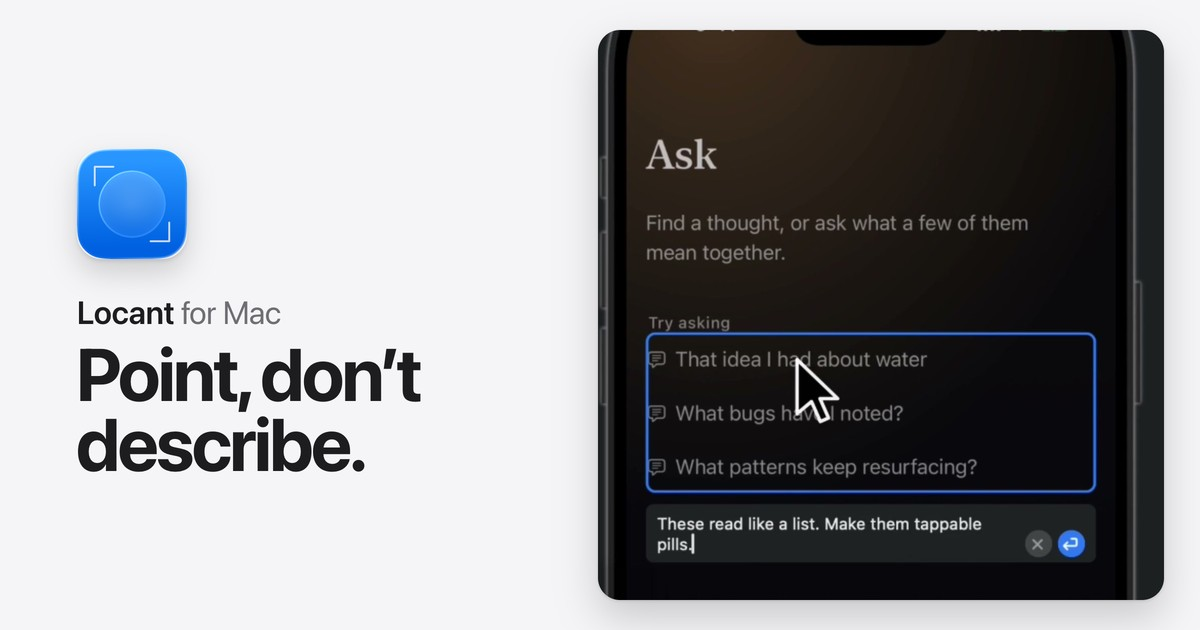
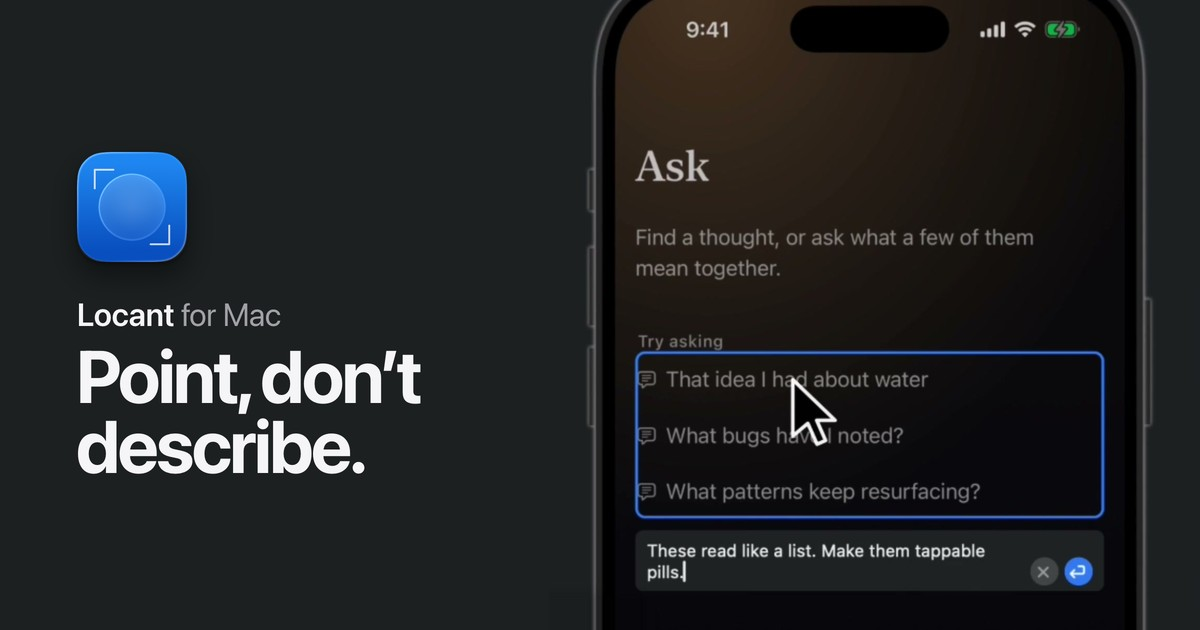
site: the share image on the capture's own dark ground
The light card put a dark, warm capture on #F5F5F7, and the two did not meet.
The image is now dark, on #1C2021, the Simulator backdrop sampled from the
frame, so the phone bleeds off the top and bottom with no edge; the dark icon
and the headline in white sit on the left. ?v=4.

diff --git a/site/index.html b/site/index.html
@@ -13,7 +13,7 @@
 <meta property="og:site_name" content="Locant">
 <meta property="og:title" content="Locant: Point, don’t describe.">
 <meta property="og:description" content="Point at one element in any app. Your coding agent gets the element, not a screenshot.">
-<meta property="og:image" content="https://locant.malikzhang.com/assets/og.jpg?v=3">
+<meta property="og:image" content="https://locant.malikzhang.com/assets/og.jpg?v=4">
 <meta property="og:image:width" content="1200">
 <meta property="og:image:height" content="630">
 <meta property="og:image:alt" content="The Locant icon and the words Point, don’t describe, beside Locant outlining the Try asking rows in an iPhone app, with the note: These read like a list. Make them tappable pills.">

diff --git a/docs/brand.md b/docs/brand.md
@@ -70,7 +70,7 @@ tests them.
 | Icon, light and dark, 1024 and 512 | `design/icon/renders/` | rendered by `ictool` from the shipped package |
 | Site icon copies | `site/assets/icon-light.png`, `icon-dark.png`; `icon-light-256.png`, `icon-dark-256.png` | 512 for the README (the light one); the page draws the 256 copies (128 pt at 2x, about 37 KB each), one per theme |
 | Favicons | `site/assets/favicon-32.png`, `favicon-64.png`, `apple-touch-icon.png` | same package, rendered at size |
-| Share image | `site/assets/og.jpg` | 1200×630, the page's `og:image` (linked with `?v=3` so previews refetch it). Since Nov 16, 2026: the icon and Point, don’t describe beside a real capture on the new Oryne: Locant outlining the Try asking rows, the pointer, and the note "These read like a list. Make them tappable pills." (frame 22 s of the promo film, the caption card's corner filled from the bezel above it) |
+| Share image | `site/assets/og.jpg` | 1200×630, the page's `og:image` (linked with `?v=4` so previews refetch it). Since Nov 16, 2026: dark, on `#1C2021`, the Simulator backdrop sampled from the frame, so the capture has no edge: the dark icon, Locant for Mac, and Point, don’t describe in white on the left; on the right, full height, a real capture on the new Oryne (promo film frame 22 s): Locant outlining the Try asking rows, the pointer, and the note "These read like a list. Make them tappable pills." The film's caption card corner is filled from the bezel above it |
 | The film, recorded | `site/assets/hero.mp4`, `hero-mobile.mp4`, `hero-poster.jpg`; `hero.gif` (the older loop) for the README | real takes: Point on an iPhone app in the Simulator and on a website, the paste in Cursor, and each change the agent made; captions are dark cards with a blue LOCANT label |
 | Try-it demo | `site/assets/desktop.jpg`, `scene-calculator.png`, `scene-iphone.jpg`, `scene-web.jpg` | the Tahoe Day wallpaper and three real windows; the overlay, label, note field, and ball are drawn over them in CSS from the app's tokens |
 | Glyphs | `site/assets/glyph-{snap,text,color,cut}.png`, `ball-hand.png` | the ring's four symbols and the hand on the ball, used as masks and tinted on the page |
